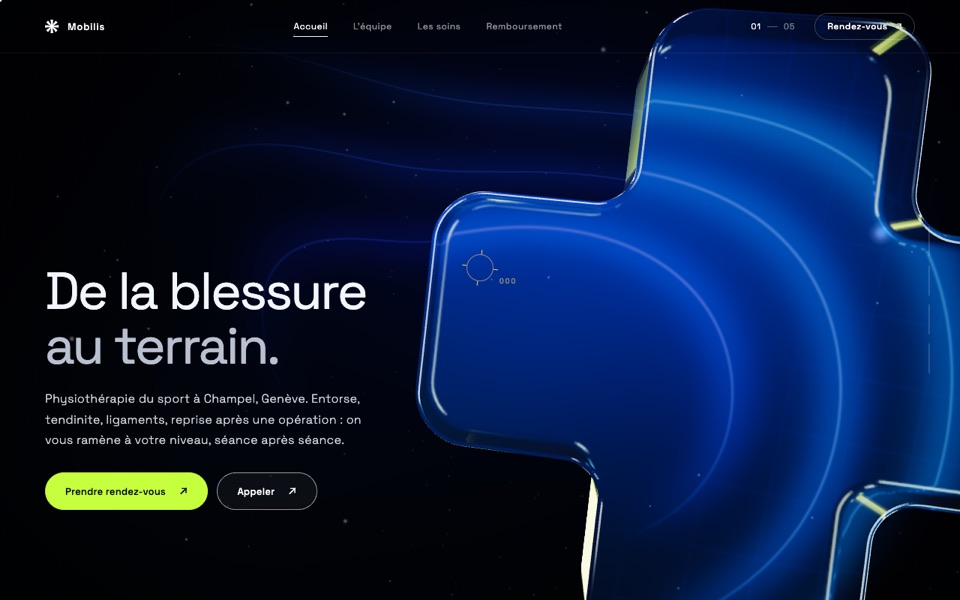
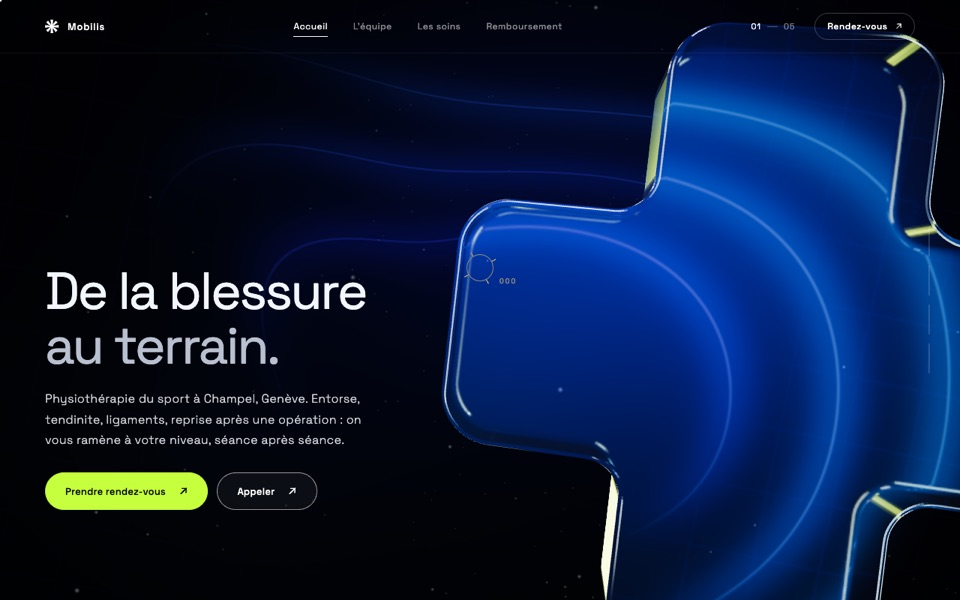
Met à jour la maquette physio-champel

diff --git a/physio-champel/index.html b/physio-champel/index.html
@@ -1785,7 +1785,7 @@ function cameraFrame(scroll) {
         const zone = freeZones[i] || { cx: sizes.width / 2, cy: sizes.height / 2, size: Math.min(sizes.width, sizes.height) };
         cx += w * zone.cx;
         cy += w * zone.cy;
-        if (w > 0.001) needed = Math.max(needed, reach * sizes.height / (0.84 * Math.max(zone.size, 1)) / tanHalf);
+        if (w > 0.001) needed = Math.max(needed, reach * sizes.height / (0.76 * Math.max(zone.size, 1)) / tanHalf);
     });
     radius = Math.max(radius, needed);
     const halfH = radius * tanHalf, halfW = halfH * aspect;
